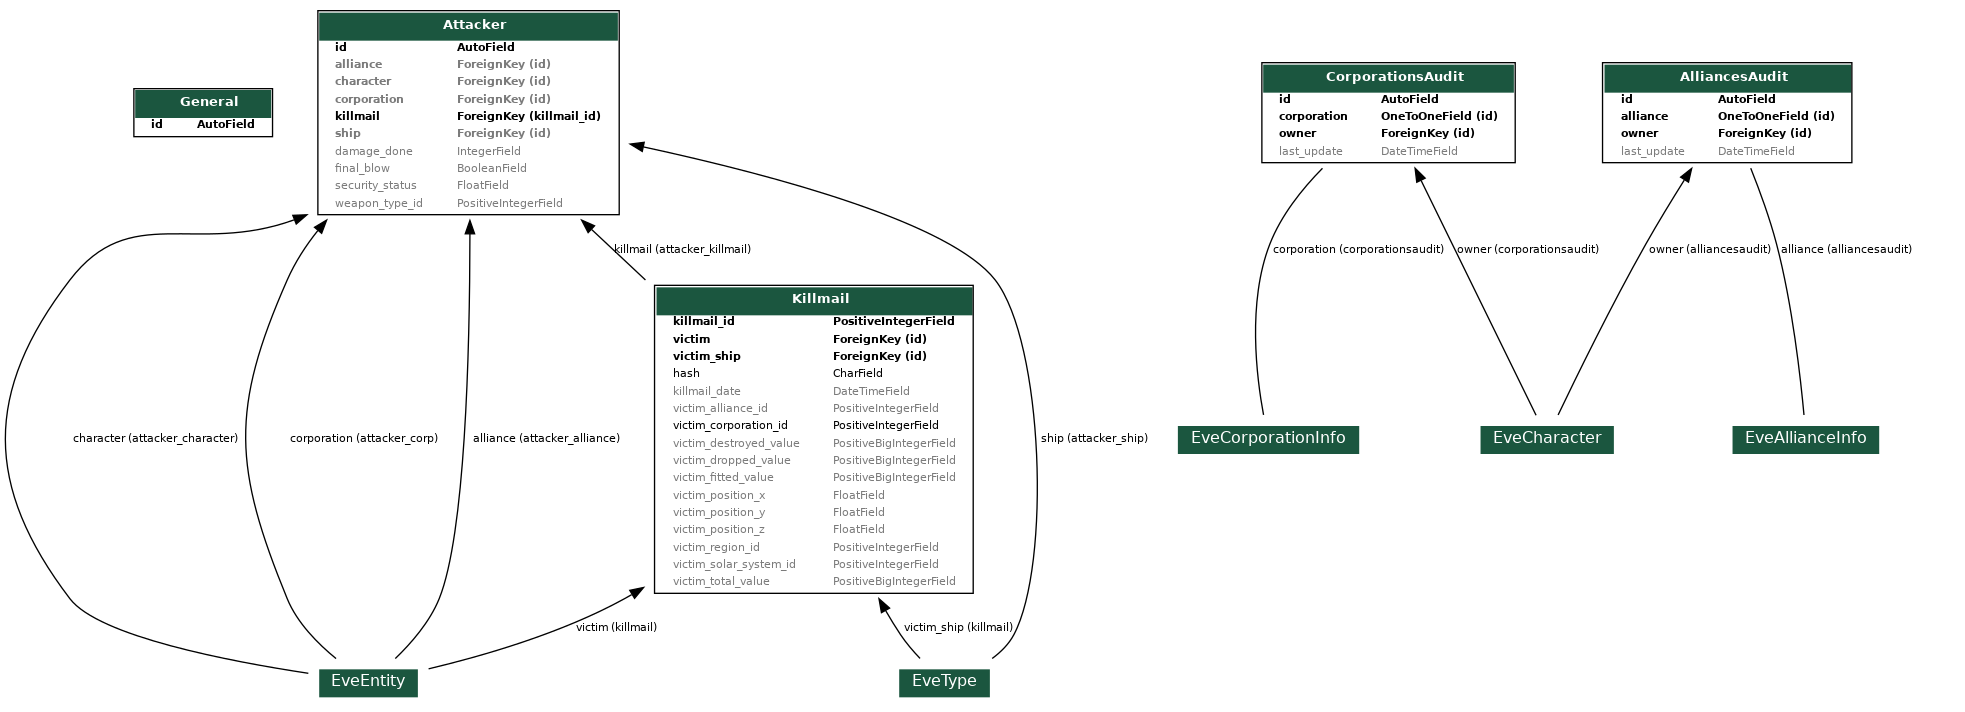
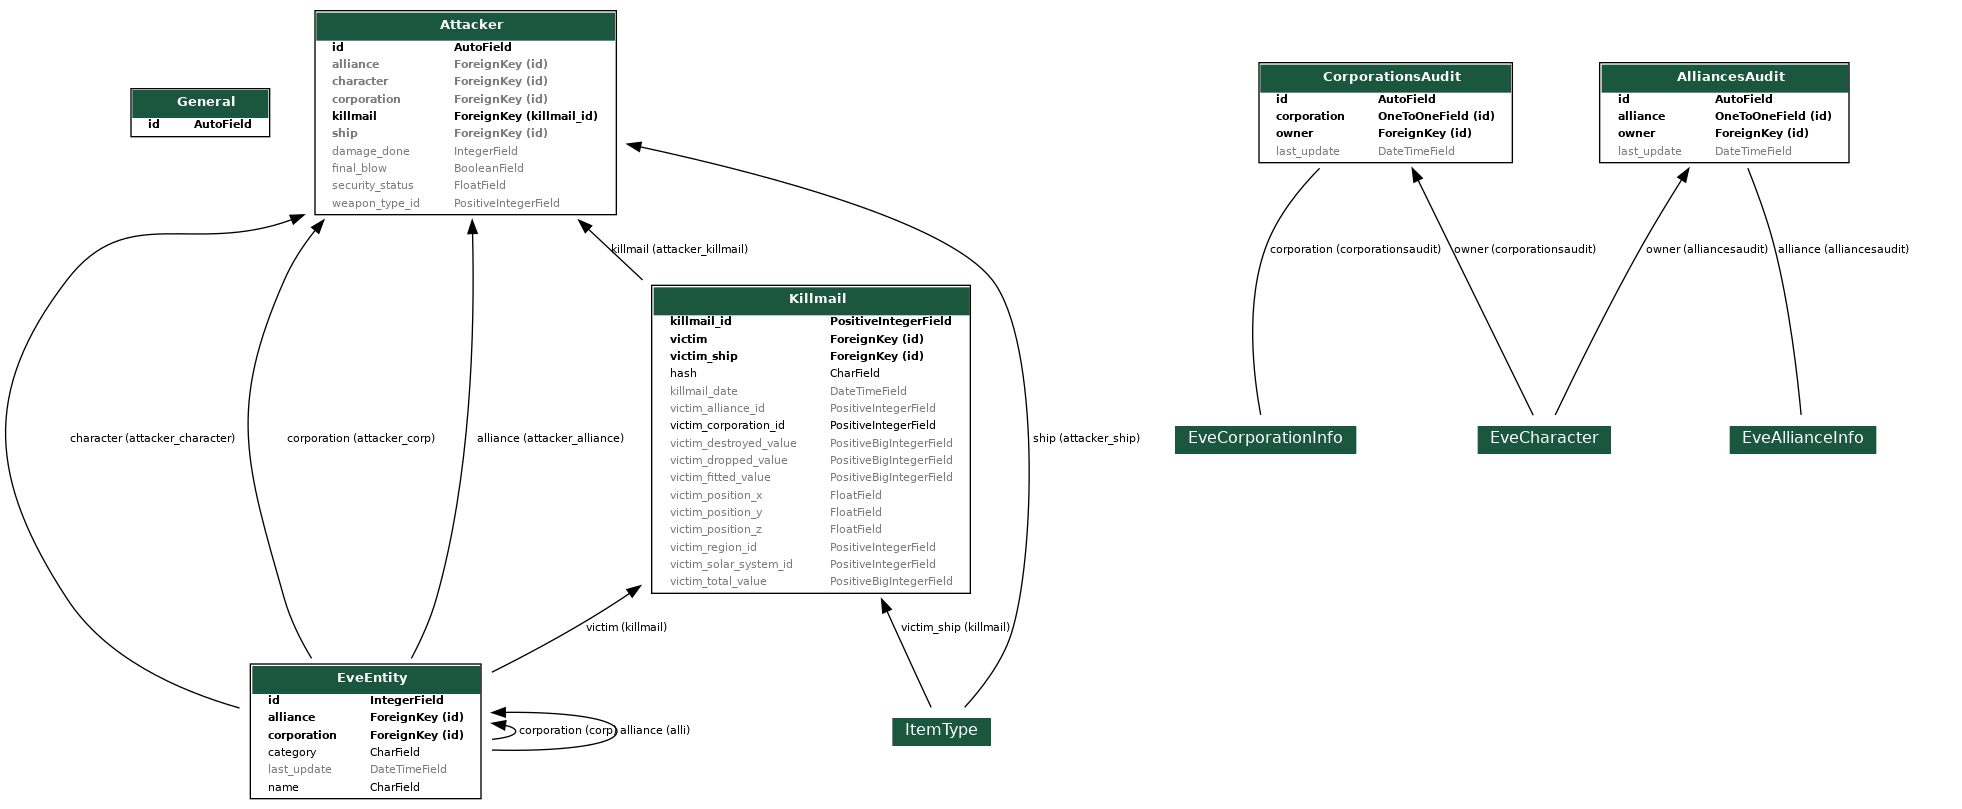
[RELEASE] v2.0.0

diff --git a/killstats/__init__.py b/killstats/__init__.py
@@ -1,6 +1,6 @@
 """Initialize the app"""
 
-__version__ = "1.0.4"
+__version__ = "2.0.0"
 __title__ = "Killstats"
 
 __package_name__ = "aa-killstats"

diff --git a/CHANGELOG.md b/CHANGELOG.md
@@ -11,6 +11,8 @@ Section Order:
 ### Removed
 -->
 
+## [2.0.0] - 2026-03-04
+
 > [!WARNING]
 >
 > Please note that this release involves structural dependency changes.
@@ -449,3 +451,10 @@ As of August 2025 zKB redis has changed their request limitations [see here](htt
 ### Added
 
 - Initial public release
+
+[1.0.1]: https://github.com/Geuthur/aa-killstats/compare/v1.0.0...v1.0.1 "1.0.1"
+[1.0.2]: https://github.com/Geuthur/aa-killstats/compare/v1.0.1...v1.0.2 "1.0.2"
+[1.0.3]: https://github.com/Geuthur/aa-killstats/compare/v1.0.2...v1.0.3 "1.0.3"
+[1.0.4]: https://github.com/Geuthur/aa-killstats/compare/v1.0.3...v1.0.4 "1.0.4"
+[2.0.0]: https://github.com/Geuthur/aa-killstats/compare/v1.0.4...v2.0.0 "2.0.0"
+[in development]: https://github.com/Geuthur/aa-killstats/compare/v2.0.0...HEAD "In Development"
